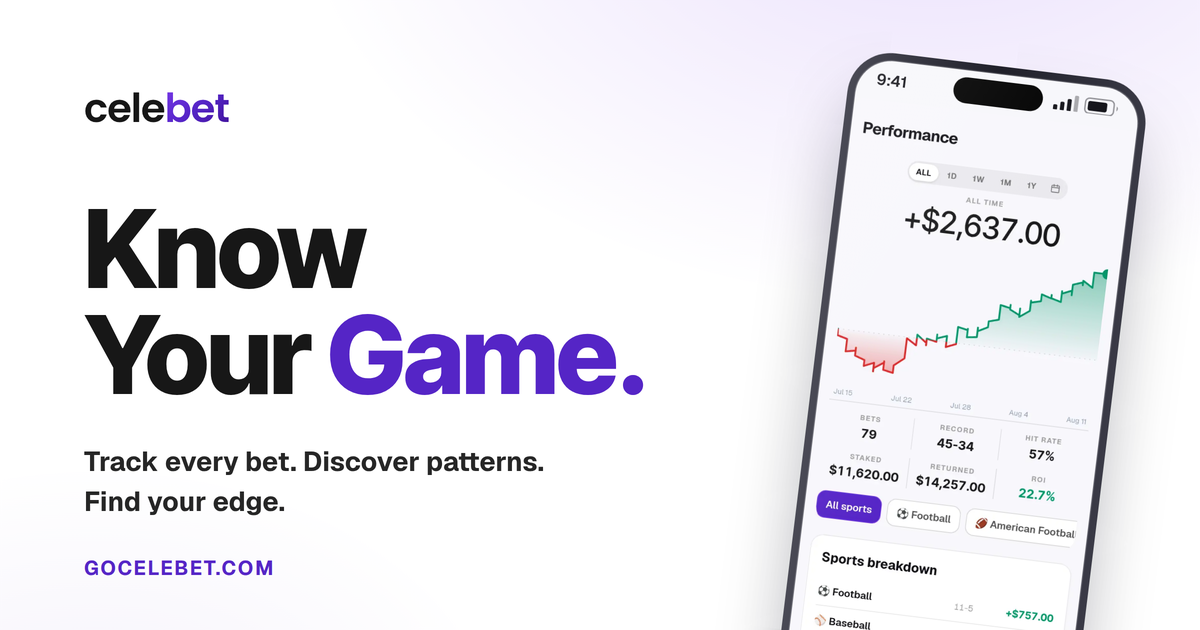
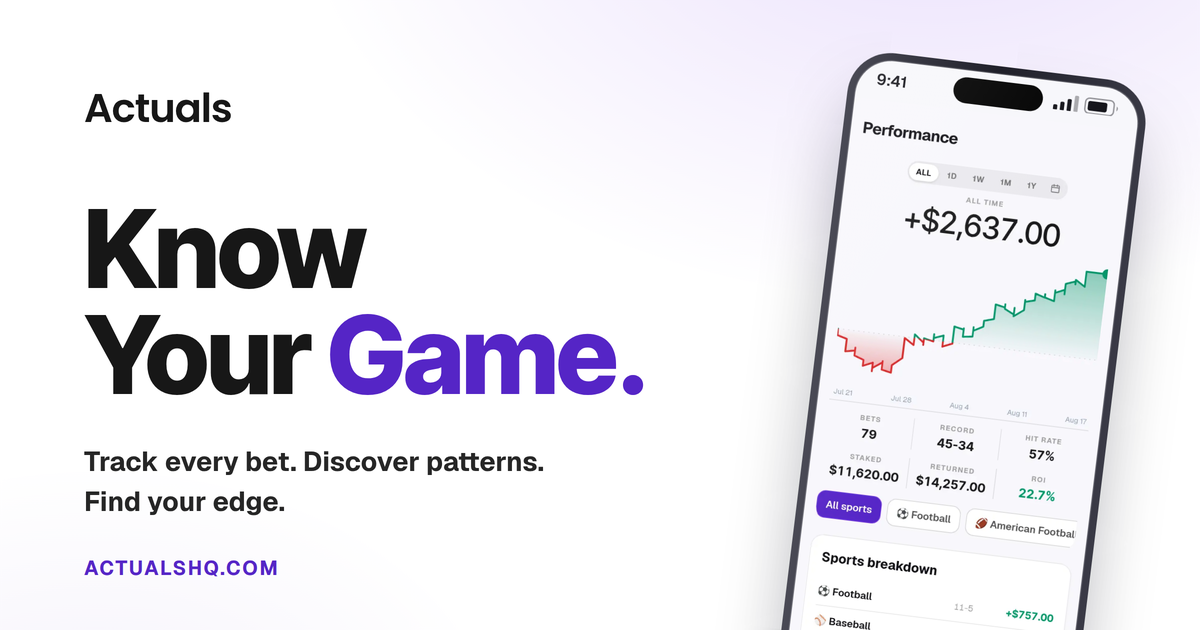
New Instagram handle and a regenerated link preview card
The owner registered @actualshq and bought actualshq.com.

Instagram: all four pages moved to @actualshq, the link and the visible
handle together. That is the landing footer, Terms, Privacy and About.

The link preview card was regenerated from /preview/og. It had been
left out of the rename as "artwork", which was wrong: it is a rendered
page, not a logo, and it was showing the old name as text to anyone who
pasted the address into a chat. It now reads Actuals and actualshq.com,
and the phone on it picked up the renamed screenshots automatically.
Resized to 1200x630 to match the shipped file and the width and height
declared in layout.tsx; the script writes at 2x.

metadataBase and the openGraph url still point at gocelebet.com ON
PURPOSE. metadataBase is what turns /og.png into an absolute URL for
the preview, so pointing it at a domain that does not resolve yet would
kill link previews everywhere. It moves the day DNS moves, not before.

Claude-Session: https://claude.ai/code/session_01JfFnrAET8HsE8vs7WJbg2Q

diff --git a/src/app/about/page.tsx b/src/app/about/page.tsx
@@ -93,10 +93,10 @@ export default function AboutPage() {
           something is wrong, missing or annoying, we would rather hear it than
           not. Find us on Instagram at{" "}
           <a
-            href="https://instagram.com/gocelebet"
+            href="https://instagram.com/actualshq"
             className="font-semibold text-neutral-900 underline dark:text-white"
           >
-            @gocelebet
+            @actualshq
           </a>
           .
         </p>

diff --git a/src/app/privacy/page.tsx b/src/app/privacy/page.tsx
@@ -40,10 +40,10 @@ export default function PrivacyPage() {
           Actuals is operated by Peak Street 6 LLC. You can reach us on
           Instagram at{" "}
           <a
-            href="https://instagram.com/gocelebet"
+            href="https://instagram.com/actualshq"
             className="font-semibold text-neutral-900 underline dark:text-white"
           >
-            @gocelebet
+            @actualshq
           </a>
           .
         </p>

diff --git a/src/app/terms/page.tsx b/src/app/terms/page.tsx
@@ -140,10 +140,10 @@ export default function TermsPage() {
         <p>
           Peak Street 6 LLC. Reach us on Instagram at{" "}
           <a
-            href="https://instagram.com/gocelebet"
+            href="https://instagram.com/actualshq"
             className="font-semibold text-neutral-900 underline dark:text-white"
           >
-            @gocelebet
+            @actualshq
           </a>
           .
         </p>

diff --git a/src/app/page.tsx b/src/app/page.tsx
@@ -491,7 +491,7 @@ export default function LandingPage() {
           </nav>
 
           <a
-            href="https://instagram.com/gocelebet"
+            href="https://instagram.com/actualshq"
             target="_blank"
             rel="noreferrer"
             aria-label="Actuals on Instagram"
